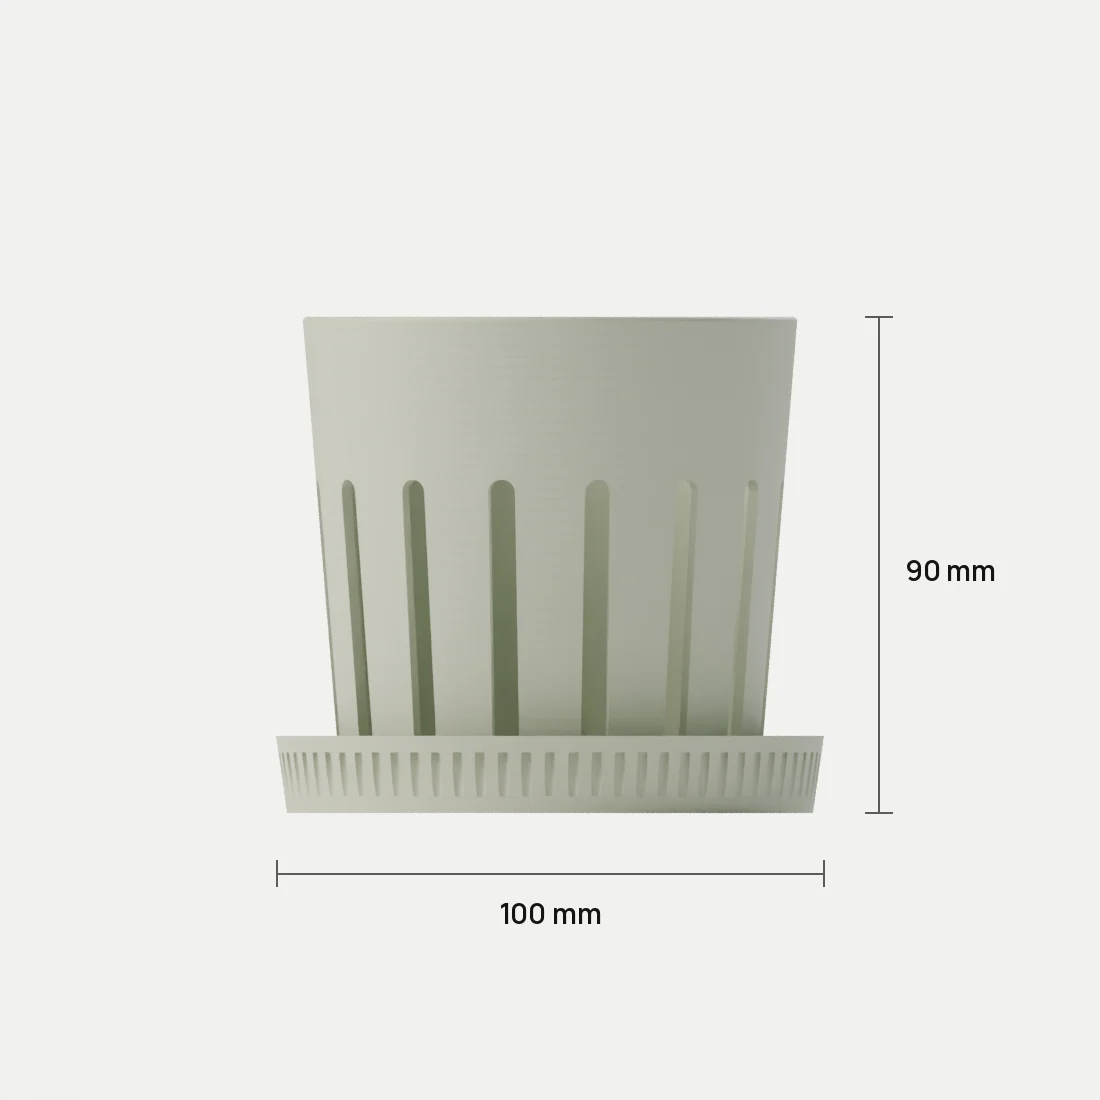
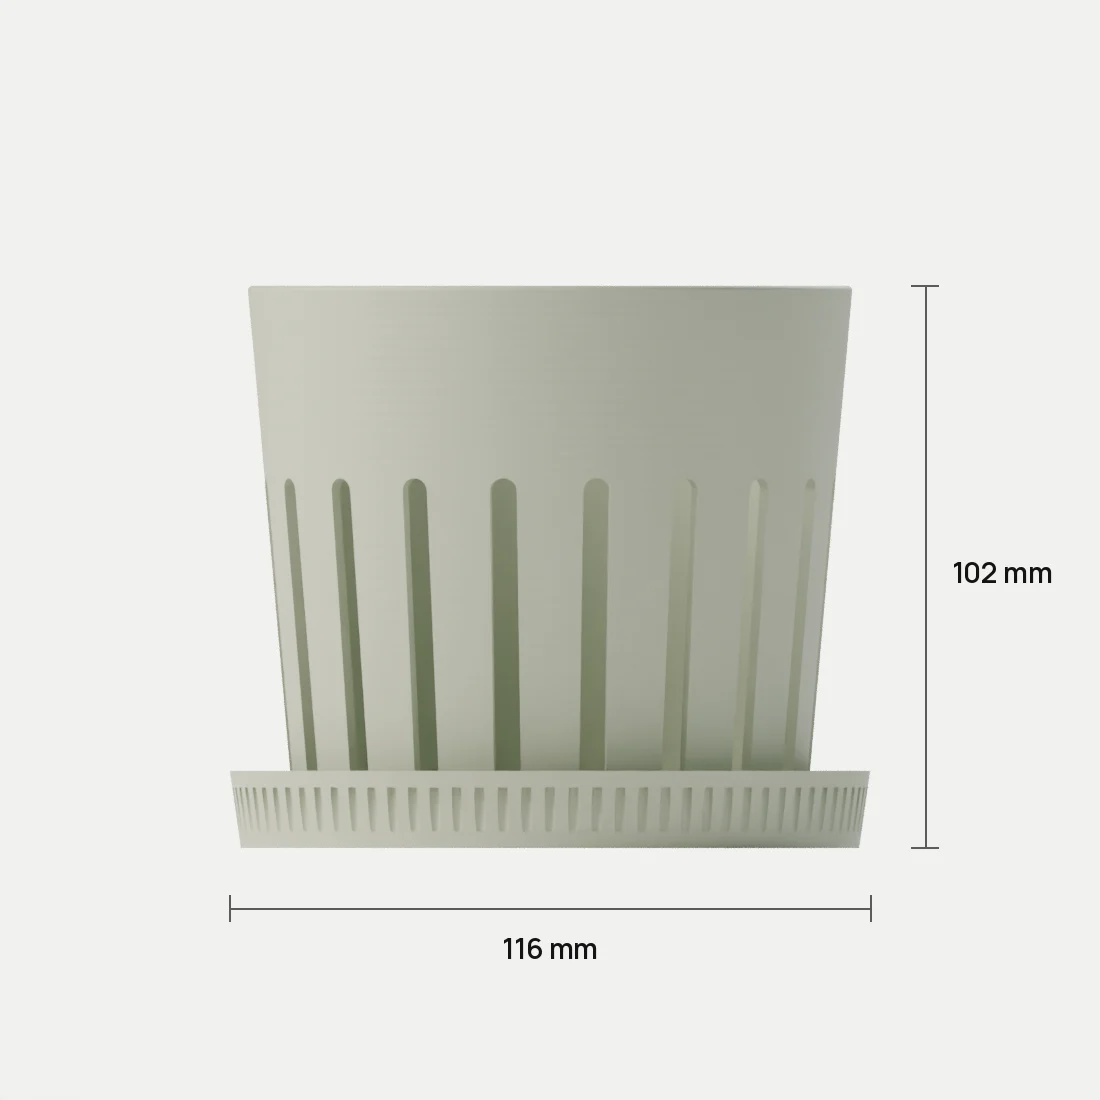
Matera mini: renders con las medidas nuevas
Claude-Session: https://claude.ai/code/session_01DGw1WHPQGEpFpJnoZVG2Ya

diff --git a/cotiza.html b/cotiza.html
@@ -9,9 +9,9 @@
   <link rel="icon" href="favicon.svg" type="image/svg+xml">
   <link rel="icon" href="favicon-32.png" sizes="32x32" type="image/png">
   <link rel="apple-touch-icon" href="apple-touch-icon-180.png">
-  <link rel="stylesheet" href="styles.css?v=20261110e">
-  <script src="catalogo.js?v=20261110e" defer></script>
-  <script src="script.js?v=20261110e" defer></script>
+  <link rel="stylesheet" href="styles.css?v=20261110f">
+  <script src="catalogo.js?v=20261110f" defer></script>
+  <script src="script.js?v=20261110f" defer></script>
 </head>
 <body>
   <a class="skip-link" href="#contenido">Saltar al contenido</a>

diff --git a/empresas.html b/empresas.html
@@ -9,9 +9,9 @@
   <link rel="icon" href="favicon.svg" type="image/svg+xml">
   <link rel="icon" href="favicon-32.png" sizes="32x32" type="image/png">
   <link rel="apple-touch-icon" href="apple-touch-icon-180.png">
-  <link rel="stylesheet" href="styles.css?v=20261110e">
-  <script src="catalogo.js?v=20261110e" defer></script>
-  <script src="script.js?v=20261110e" defer></script>
+  <link rel="stylesheet" href="styles.css?v=20261110f">
+  <script src="catalogo.js?v=20261110f" defer></script>
+  <script src="script.js?v=20261110f" defer></script>
 </head>
 <body>
   <a class="skip-link" href="#contenido">Saltar al contenido</a>

diff --git a/index.html b/index.html
@@ -9,9 +9,9 @@
   <link rel="icon" href="favicon.svg" type="image/svg+xml">
   <link rel="icon" href="favicon-32.png" sizes="32x32" type="image/png">
   <link rel="apple-touch-icon" href="apple-touch-icon-180.png">
-  <link rel="stylesheet" href="styles.css?v=20261110e">
-  <script src="catalogo.js?v=20261110e" defer></script>
-  <script src="script.js?v=20261110e" defer></script>
+  <link rel="stylesheet" href="styles.css?v=20261110f">
+  <script src="catalogo.js?v=20261110f" defer></script>
+  <script src="script.js?v=20261110f" defer></script>
 </head>
 <body>
   <a class="skip-link" href="#contenido">Saltar al contenido</a>

diff --git a/nosotros.html b/nosotros.html
@@ -9,9 +9,9 @@
   <link rel="icon" href="favicon.svg" type="image/svg+xml">
   <link rel="icon" href="favicon-32.png" sizes="32x32" type="image/png">
   <link rel="apple-touch-icon" href="apple-touch-icon-180.png">
-  <link rel="stylesheet" href="styles.css?v=20261110e">
-  <script src="catalogo.js?v=20261110e" defer></script>
-  <script src="script.js?v=20261110e" defer></script>
+  <link rel="stylesheet" href="styles.css?v=20261110f">
+  <script src="catalogo.js?v=20261110f" defer></script>
+  <script src="script.js?v=20261110f" defer></script>
 </head>
 <body>
   <a class="skip-link" href="#contenido">Saltar al contenido</a>

diff --git a/producto.html b/producto.html
@@ -9,9 +9,9 @@
   <link rel="icon" href="favicon.svg" type="image/svg+xml">
   <link rel="icon" href="favicon-32.png" sizes="32x32" type="image/png">
   <link rel="apple-touch-icon" href="apple-touch-icon-180.png">
-  <link rel="stylesheet" href="styles.css?v=20261110e">
-  <script src="catalogo.js?v=20261110e" defer></script>
-  <script src="script.js?v=20261110e" defer></script>
+  <link rel="stylesheet" href="styles.css?v=20261110f">
+  <script src="catalogo.js?v=20261110f" defer></script>
+  <script src="script.js?v=20261110f" defer></script>
 </head>
 <body>
   <a class="skip-link" href="#contenido">Saltar al contenido</a>

diff --git a/tienda.html b/tienda.html
@@ -9,9 +9,9 @@
   <link rel="icon" href="favicon.svg" type="image/svg+xml">
   <link rel="icon" href="favicon-32.png" sizes="32x32" type="image/png">
   <link rel="apple-touch-icon" href="apple-touch-icon-180.png">
-  <link rel="stylesheet" href="styles.css?v=20261110e">
-  <script src="catalogo.js?v=20261110e" defer></script>
-  <script src="script.js?v=20261110e" defer></script>
+  <link rel="stylesheet" href="styles.css?v=20261110f">
+  <script src="catalogo.js?v=20261110f" defer></script>
+  <script src="script.js?v=20261110f" defer></script>
 </head>
 <body>
   <a class="skip-link" href="#contenido">Saltar al contenido</a>

diff --git a/script.js b/script.js
@@ -14,7 +14,7 @@
   var CLAVE_CARRITO = "ito3d-carrito";
   var CATALOGO = window.ITO_CATALOGO || { categorias: [], productos: [] };
   /* Versión de las fotos: al cambiar una foto, sube este número para que los navegadores no muestren la vieja */
-  var VERSION_FOTOS = "20261110e";
+  var VERSION_FOTOS = "20261110f";
   function conVersion(r) { return r && r.indexOf("?") < 0 ? r + "?v=" + VERSION_FOTOS : r; }
   CATALOGO.productos.forEach(function (p) {
     p.fotos = (p.fotos || []).map(conVersion);
